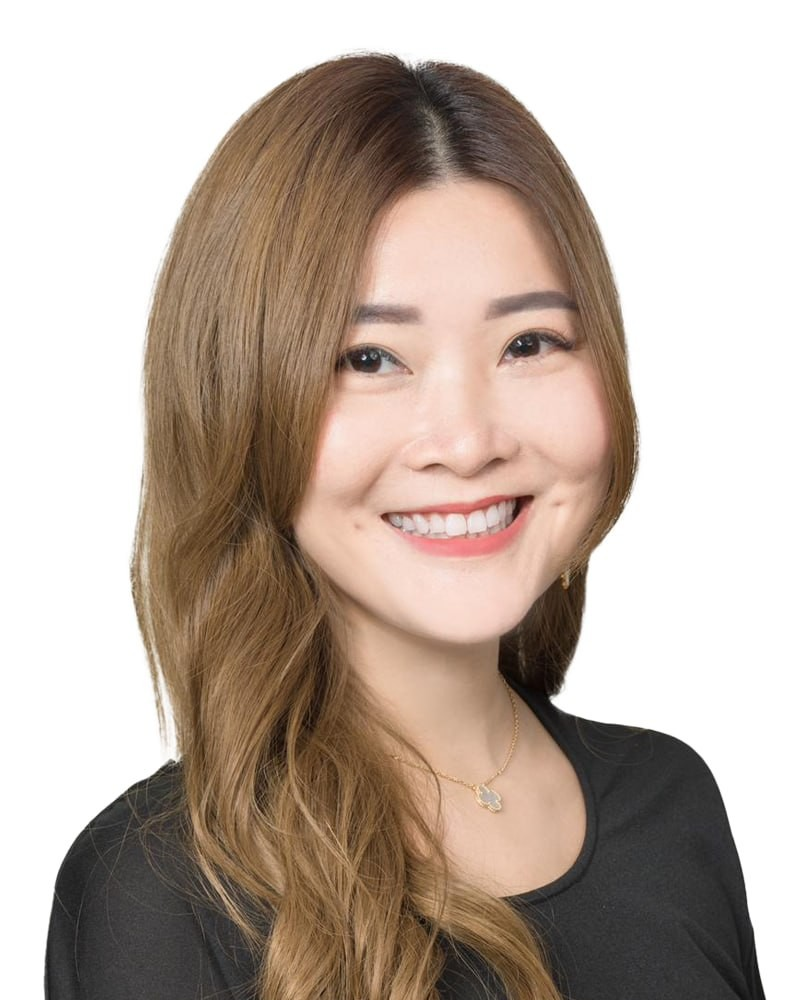
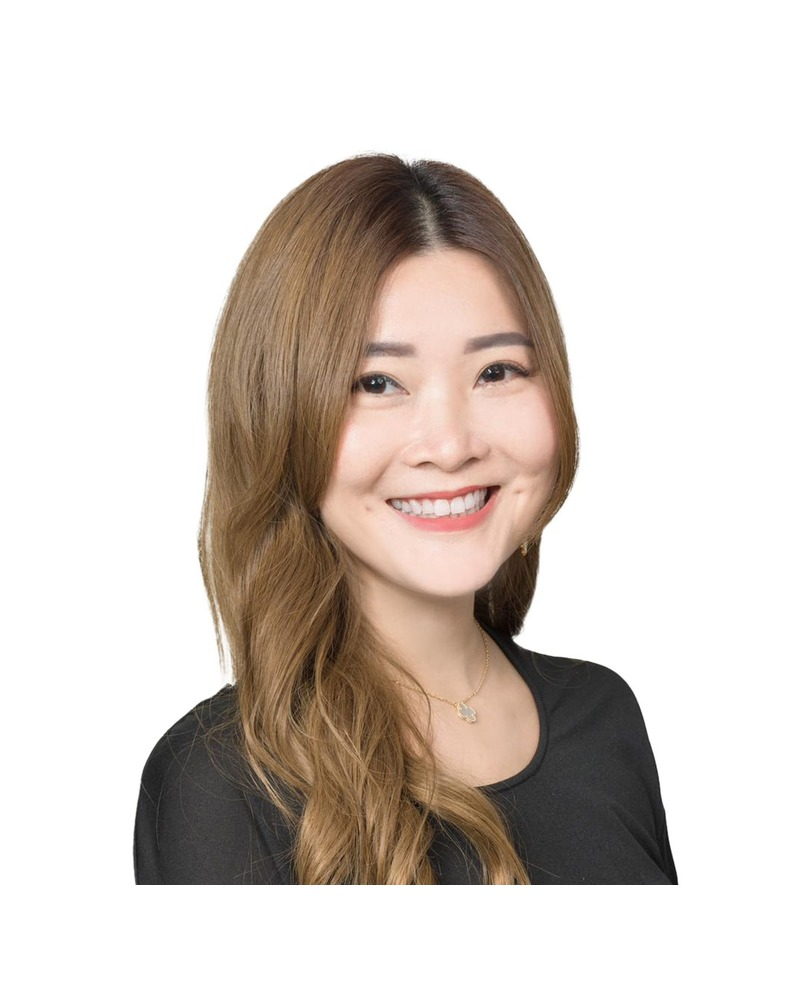
about: resize Grace photo to 75% on white canvas for balanced card framing

diff --git a/about.html b/about.html
@@ -315,9 +315,6 @@
       object-fit: cover;
       object-position: center top;
     }
-    .team-card[data-profile="grace"] .team-photo img {
-      transform: scale(0.85);
-    }
     .team-photo-initial {
       font-family: var(--font-display);
       font-size: var(--text-5xl);
